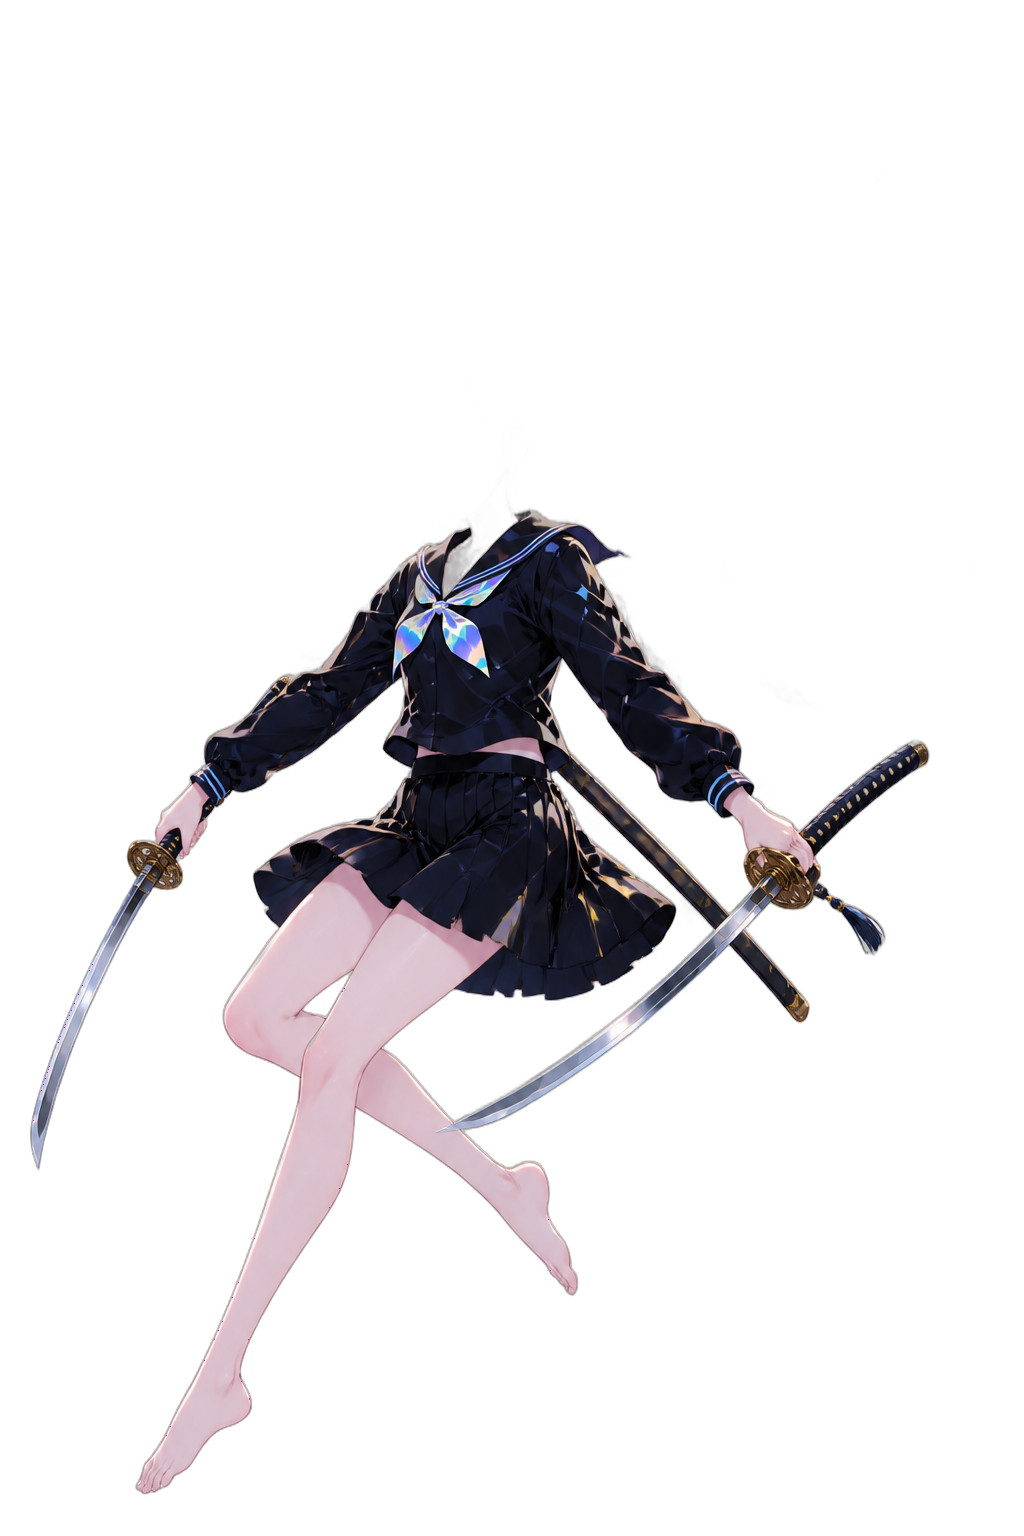
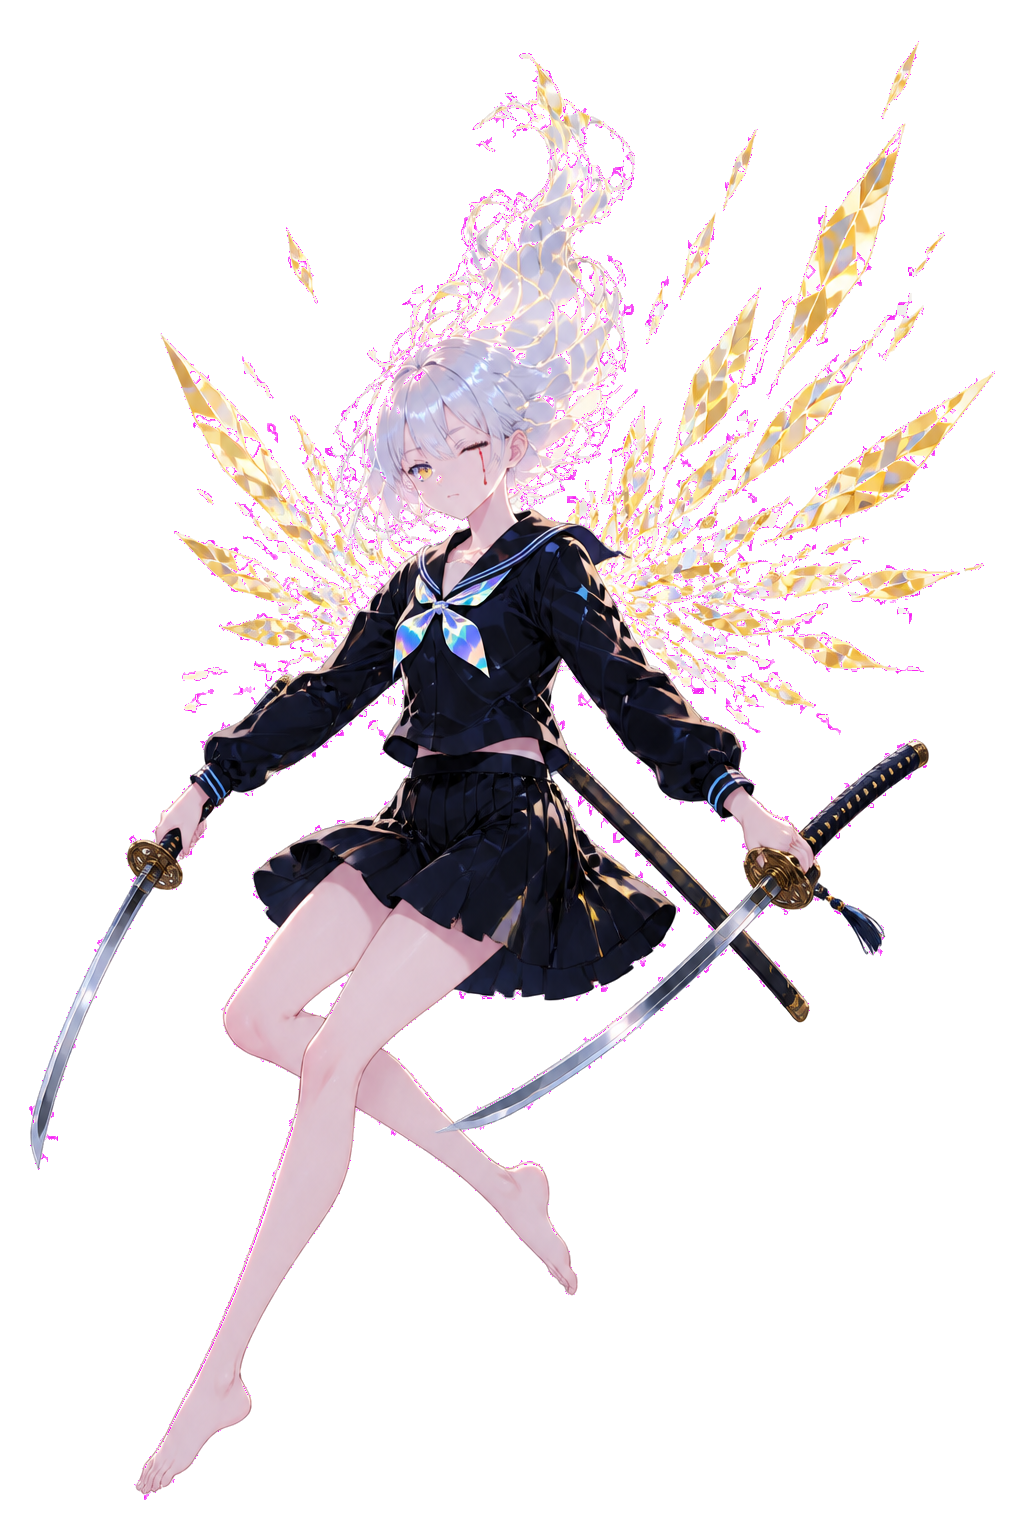
fix(lucy): recover complete Ultra v3 alpha

diff --git a/scripts/assets/lucy-v3-validate.py b/scripts/assets/lucy-v3-validate.py
@@ -99,6 +99,15 @@ def main() -> None:
         "heaven": green_edge_count(heaven),
         "ultra": green_edge_count(ultra),
     }
+    ultra_guard_regions = {
+        "head": (300, 250, 650, 560, 40000),
+        "hair": (250, 40, 720, 450, 20000),
+        "gold_wings": (120, 100, 1000, 750, 150000),
+    }
+    ultra_occupancy = {}
+    for name, (x1, y1, x2, y2, minimum) in ultra_guard_regions.items():
+        count = int((ultra[y1:y2, x1:x2, 3] > 0).sum())
+        ultra_occupancy[name] = {"pixels": count, "minimum": minimum, "pass": count >= minimum}
 
     all_files = [path for path in OUT.rglob("*") if path.is_file()]
     webps = [path for path in all_files if path.suffix.lower() == ".webp"]
@@ -168,6 +177,7 @@ def main() -> None:
         inside_changed > 0,
         all(value > 0 for value in fractional_alpha.values()),
         all(value == 0 for value in green_edges.values()),
+        all(item["pass"] for item in ultra_occupancy.values()),
         not unreadable,
         not production_pngs,
         not missing,
@@ -197,6 +207,8 @@ def main() -> None:
         "## Alpha and export gates", "",
         f"- Fractional-alpha pixels: Heaven {fractional_alpha['heaven']}; Ultra {fractional_alpha['ultra']}.",
         f"- Strong-green exterior partial-alpha pixels: Heaven {green_edges['heaven']}; Ultra {green_edges['ultra']}.",
+        f"- Ultra upper-silhouette occupancy: {'pass' if all(item['pass'] for item in ultra_occupancy.values()) else 'FAIL'} — "
+        + ", ".join(f"{name} {item['pixels']}/{item['minimum']}" for name, item in ultra_occupancy.items()) + ".",
         f"- WebPs reopened: {'pass' if not unreadable else 'FAIL'} — {len(webps)} checked.",
         f"- Registered derivative pairs: {'pass' if not pair_failures else 'FAIL'} — {len(manifest['pair_matrix'])} checked.",
         f"- V3 production PNGs: {'pass' if not production_pngs else 'FAIL'} — {len(production_pngs)}.",
@@ -208,7 +220,8 @@ def main() -> None:
         "## Guard disposition", "",
         "- Heaven: PASS — exactly two traceable long, normally thick legs/feet; two arms/hands; one real-steel katana; structurally connected waist/pelvis; opaque skirt coverage.",
         "- Hell: PASS — same registered Heaven body and geometry; both eyes closed; exactly one vivid red tear; full inversion including skin.",
-        "- Ultra: PASS — exactly two traceable proportionate legs/feet; two arms/hands; two matching real-steel katanas; structurally connected waist/pelvis; opaque skirt coverage.",
+        "- Ultra: PASS after deterministic rematte recovery — one head; restored silver-white hair and gold shard wings; exactly two traceable proportionate legs/feet; two arms/hands; two matching real-steel katanas; structurally connected waist/pelvis; opaque skirt coverage.",
+        "- Ultra recovery note: the first promoted isnet matte erased the head, hair, and wings. It is superseded by the retained-raw known-checker rematte and would now fail the occupancy gate.",
         "- The v1/v2/canonical-sheet full-body poses were not used as anatomy authority.", "",
     ]))
     print(json.dumps({
@@ -218,6 +231,7 @@ def main() -> None:
         "inside_mask_changed": inside_changed,
         "fractional_alpha": fractional_alpha,
         "green_edges": green_edges,
+        "ultra_occupancy": ultra_occupancy,
         "pair_failures": pair_failures,
         "missing": missing + missing_required,
         "changed_protected": changed_protected,

diff --git a/scripts/assets/lucy-v3-export.py b/scripts/assets/lucy-v3-export.py
@@ -149,7 +149,7 @@ def main() -> None:
     heaven = clean_alpha(rgba(H_DIR / "heaven-accepted-alpha.png"))
     hell_base = inverse(heaven)
     hell, full_mask = hell_face_edit(hell_base)
-    ultra = clean_alpha(rgba(U_DIR / "ultra-rembg.png"))
+    ultra = clean_alpha(rgba(U_DIR / "ultra-checker-rematte.png"))
     png(heaven, H_DIR / "heaven-final-alpha.png")
     png(hell_base, H_DIR / "hell-registered-base-final.png")
     png(hell, F_DIR / "intermediate/hell-final-alpha.png")
@@ -294,6 +294,8 @@ def main() -> None:
         "heaven_source": "V3-HH-01 accepted gpt-image-2 master",
         "hell_source": "exact registered Heaven inversion plus V3-HH-02 bounded face edit",
         "ultra_source": "V3-ULTRA-01 accepted gpt-image-2 master",
+        "ultra_matte_source": "deterministic known-checker rematte from retained V3-ULTRA-01 raw; supersedes headless isnet matte",
+        "ultra_visual_recheck": "PASS on light and dark checker composites after restored head, hair, and gold wings",
         "v1_v2_preserved": True,
         "pair_matrix": matrix,
         "outputs": sorted(made),

diff --git a/docs/lucy/production/v3/runs/V3-ULTRA-01.md b/docs/lucy/production/v3/runs/V3-ULTRA-01.md
@@ -1,6 +1,6 @@
 # V3-ULTRA-01 — Ultra master
 
-Status: **PASS / accepted** after one visual self-review. No replacement call.
+Status: **PASS / accepted raw; deterministic matte recovered after owner-stack recheck.** No replacement call.
 
 ## Paid call
 
@@ -27,8 +27,16 @@ Status: **PASS / accepted** after one visual self-review. No replacement call.
   red tear, exactly two complete matching real-steel authority-style katanas,
   gold disconnected shard wings, normal non-inverted skin, no third weapon.
 
-The generated PNG was opaque RGB with a baked light checker field. The retained
-`isnet-general-use` matte created fractional alpha; deterministic cleanup affects
-only the exterior-connected fractional band. Raw/intermediate PNGs were backed
-up as-is. No replacement call was justified.
+The generated PNG was opaque RGB with a baked light checker field. The first
+`isnet-general-use` matte created fractional alpha but incorrectly erased the
+head, hair, and gold wings. That promoted matte is superseded. The accepted raw
+itself passes the anatomy, proportion, modesty, and state guards, so no paid
+replacement was justified.
 
+`scripts/assets/lucy-v3-ultra-rematte.py` deterministically reconstructs the
+known 16 px near-white checker plate, combines its color/luminance difference
+with the retained body matte, rejects detached checker noise, and preserves RGB
+only from the original raw. Light and dark checker composites were reviewed
+after recovery. The validator now requires non-trivial alpha occupancy in the
+head, hair, and gold-wing regions so the original headless promotion fails.
+Raw/intermediate/audit PNGs were backed up as-is.

diff --git a/docs/lucy/production/v3/VALIDATION_REPORT.md b/docs/lucy/production/v3/VALIDATION_REPORT.md
@@ -19,8 +19,9 @@ Status: PASS
 
 ## Alpha and export gates
 
-- Fractional-alpha pixels: Heaven 385161; Ultra 256169.
+- Fractional-alpha pixels: Heaven 385161; Ultra 27782.
 - Strong-green exterior partial-alpha pixels: Heaven 0; Ultra 0.
+- Ultra upper-silhouette occupancy: pass — head 70435/40000, hair 57965/20000, gold_wings 222348/150000.
 - WebPs reopened: pass — 79 checked.
 - Registered derivative pairs: pass — 33 checked.
 - V3 production PNGs: pass — 0.
@@ -36,5 +37,6 @@ Status: PASS
 
 - Heaven: PASS — exactly two traceable long, normally thick legs/feet; two arms/hands; one real-steel katana; structurally connected waist/pelvis; opaque skirt coverage.
 - Hell: PASS — same registered Heaven body and geometry; both eyes closed; exactly one vivid red tear; full inversion including skin.
-- Ultra: PASS — exactly two traceable proportionate legs/feet; two arms/hands; two matching real-steel katanas; structurally connected waist/pelvis; opaque skirt coverage.
+- Ultra: PASS after deterministic rematte recovery — one head; restored silver-white hair and gold shard wings; exactly two traceable proportionate legs/feet; two arms/hands; two matching real-steel katanas; structurally connected waist/pelvis; opaque skirt coverage.
+- Ultra recovery note: the first promoted isnet matte erased the head, hair, and wings. It is superseded by the retained-raw known-checker rematte and would now fail the occupancy gate.
 - The v1/v2/canonical-sheet full-body poses were not used as anatomy authority.
